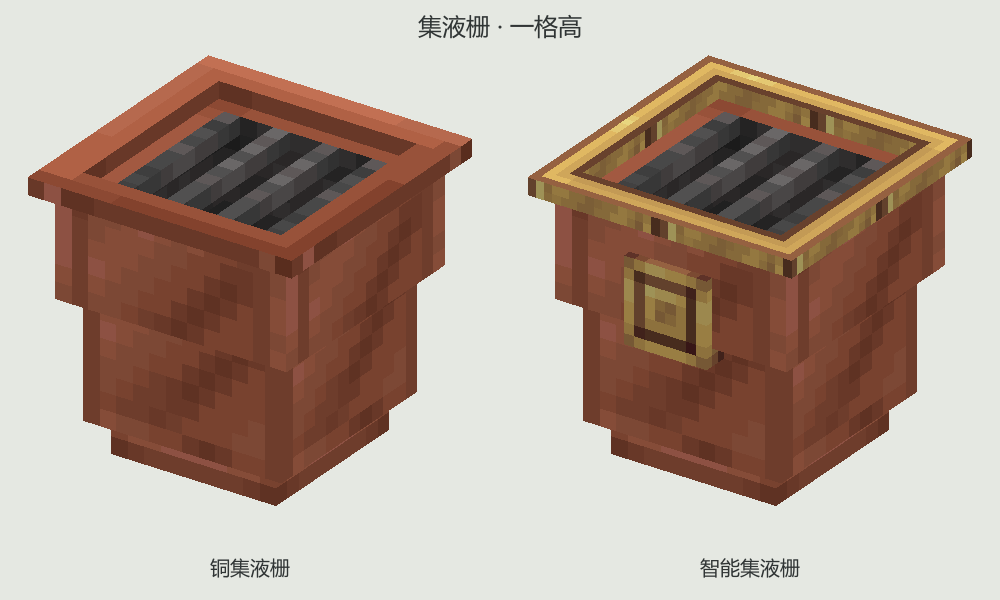
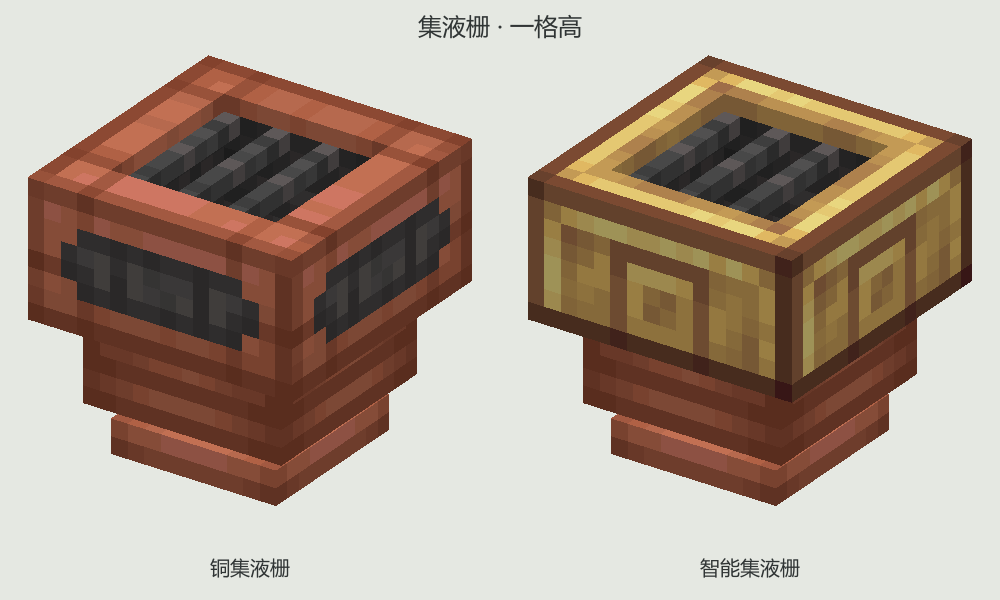
Remove duplicate smart grate filter panels and check other filter models

diff --git a/tools/remove-extra-grate-filter.py b/tools/remove-extra-grate-filter.py
@@ -1,0 +1,14 @@
+"""Use the imported grate's existing lower filter slot; remove added upper panels."""
+import json
+from pathlib import Path
+root = Path(__file__).resolve().parents[1] / 'src/main/resources/assets/ccd'
+path = root / 'blockstates/smart_collection_grate.json'
+data = json.loads(path.read_text())
+data['multipart'] = [part for part in data['multipart']
+                     if part['apply']['model'] != 'ccd:block/smart_collection_grate_filter']
+path.write_text(json.dumps(data, indent=2) + '\n')
+path = root / 'models/item/smart_collection_grate.json'
+data = json.loads(path.read_text())
+data['elements'] = [e for e in data['elements'] if not e.get('name', '').startswith('filter_')]
+data['textures'].pop('filter', None)
+path.write_text(json.dumps(data, indent=2) + '\n')

diff --git a/src/main/java/dev/ccd/content/SmartCollectionGrateBlockEntity.java b/src/main/java/dev/ccd/content/SmartCollectionGrateBlockEntity.java
@@ -26,7 +26,7 @@ public final class SmartCollectionGrateBlockEntity extends CopperCollectionGrate
     @Override public void addBehaviours(List<BlockEntityBehaviour> behaviours) {
         super.addBehaviours(behaviours);
         behaviours.add(filtering = new FilteringBehaviour(this, new ValueBoxTransform.Sided() {
-            @Override protected Vec3 getSouthLocation() { return new Vec3(.5, 11 / 16d, 16.5625 / 16); }
+            @Override protected Vec3 getSouthLocation() { return new Vec3(.5, 5.5 / 16d, 14.5625 / 16); }
             @Override public float getScale() { return .25f; }
             @Override protected boolean isSideActive(BlockState state, Direction side) {
                 return side.getAxis().isHorizontal();

diff --git a/docs/filter-slot-model-check.md b/docs/filter-slot-model-check.md
@@ -1,0 +1,13 @@
+# 过滤槽模型核对
+
+本次检查直接声明过滤行为的五处设备代码及对应方块状态、模型、材质引用。
+
+- 智能集液栅：导入的 lower_bowl 已用 body 贴图绘制槽位，上方额外四块 smart_collection_grate_filter 面板重复。已从方块状态和物品模型移除额外面板。过滤图标与交互中心移至下方已有槽位，南面基准为 (8, 5.5, 14.5625)/16，保留原缩放。
+- 智能龙头：主体继承普通龙头几何并改用 brass_block，单独追加一块前置过滤面板；主体不含另一块过滤槽，没有发现重复。过滤中心对应面板前表面。
+- 智能流体舱口：模型内只有一个 smart_pipe_filter_slot，没有在 blockstate 中再次叠加。沿用 HatchFilterSlot 并按倾斜面位置修正偏移。
+- 流体传输器：槽位来自大头侧面贴图，没有额外面板。沿用此前显式定位到大头的过滤坐标和默认大小。
+- 流体桥：两端各一个 socket，分别承载独立端面过滤行为，没有发现同一面重复添加过滤槽。流体访问口本身没有过滤行为。
+
+已修正当前集液栅预览脚本，避免离线预览再次拼入已移除的面板。历史资源生成器和旧预览不代表当前注册模型。
+
+以上为代码、模型与贴图静态检查；未启动游戏，图标和点击区域的世界内表现尚待复验。
